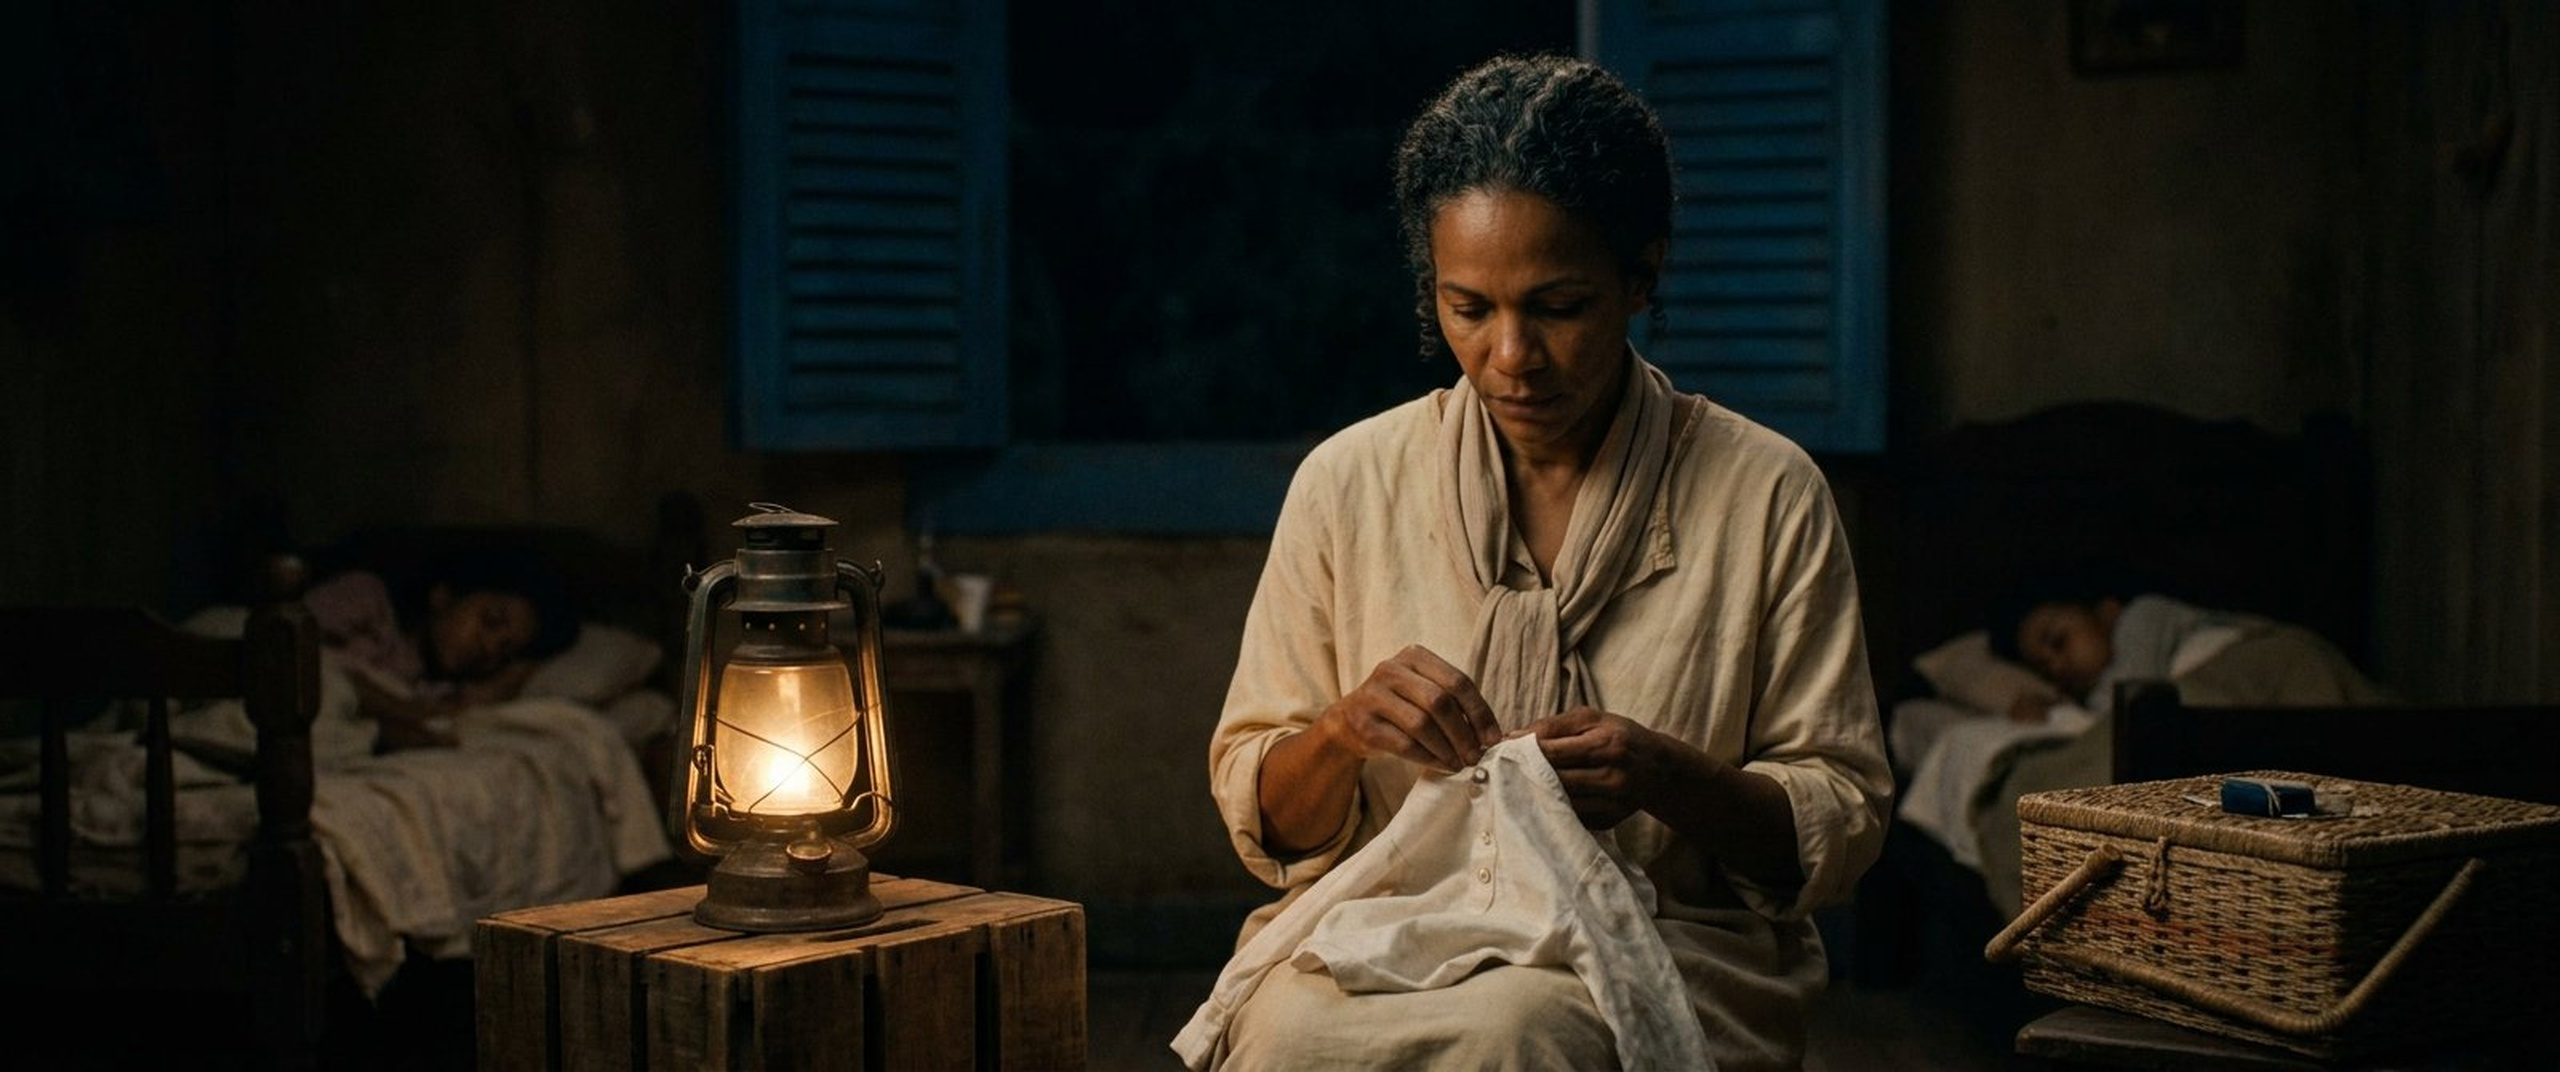
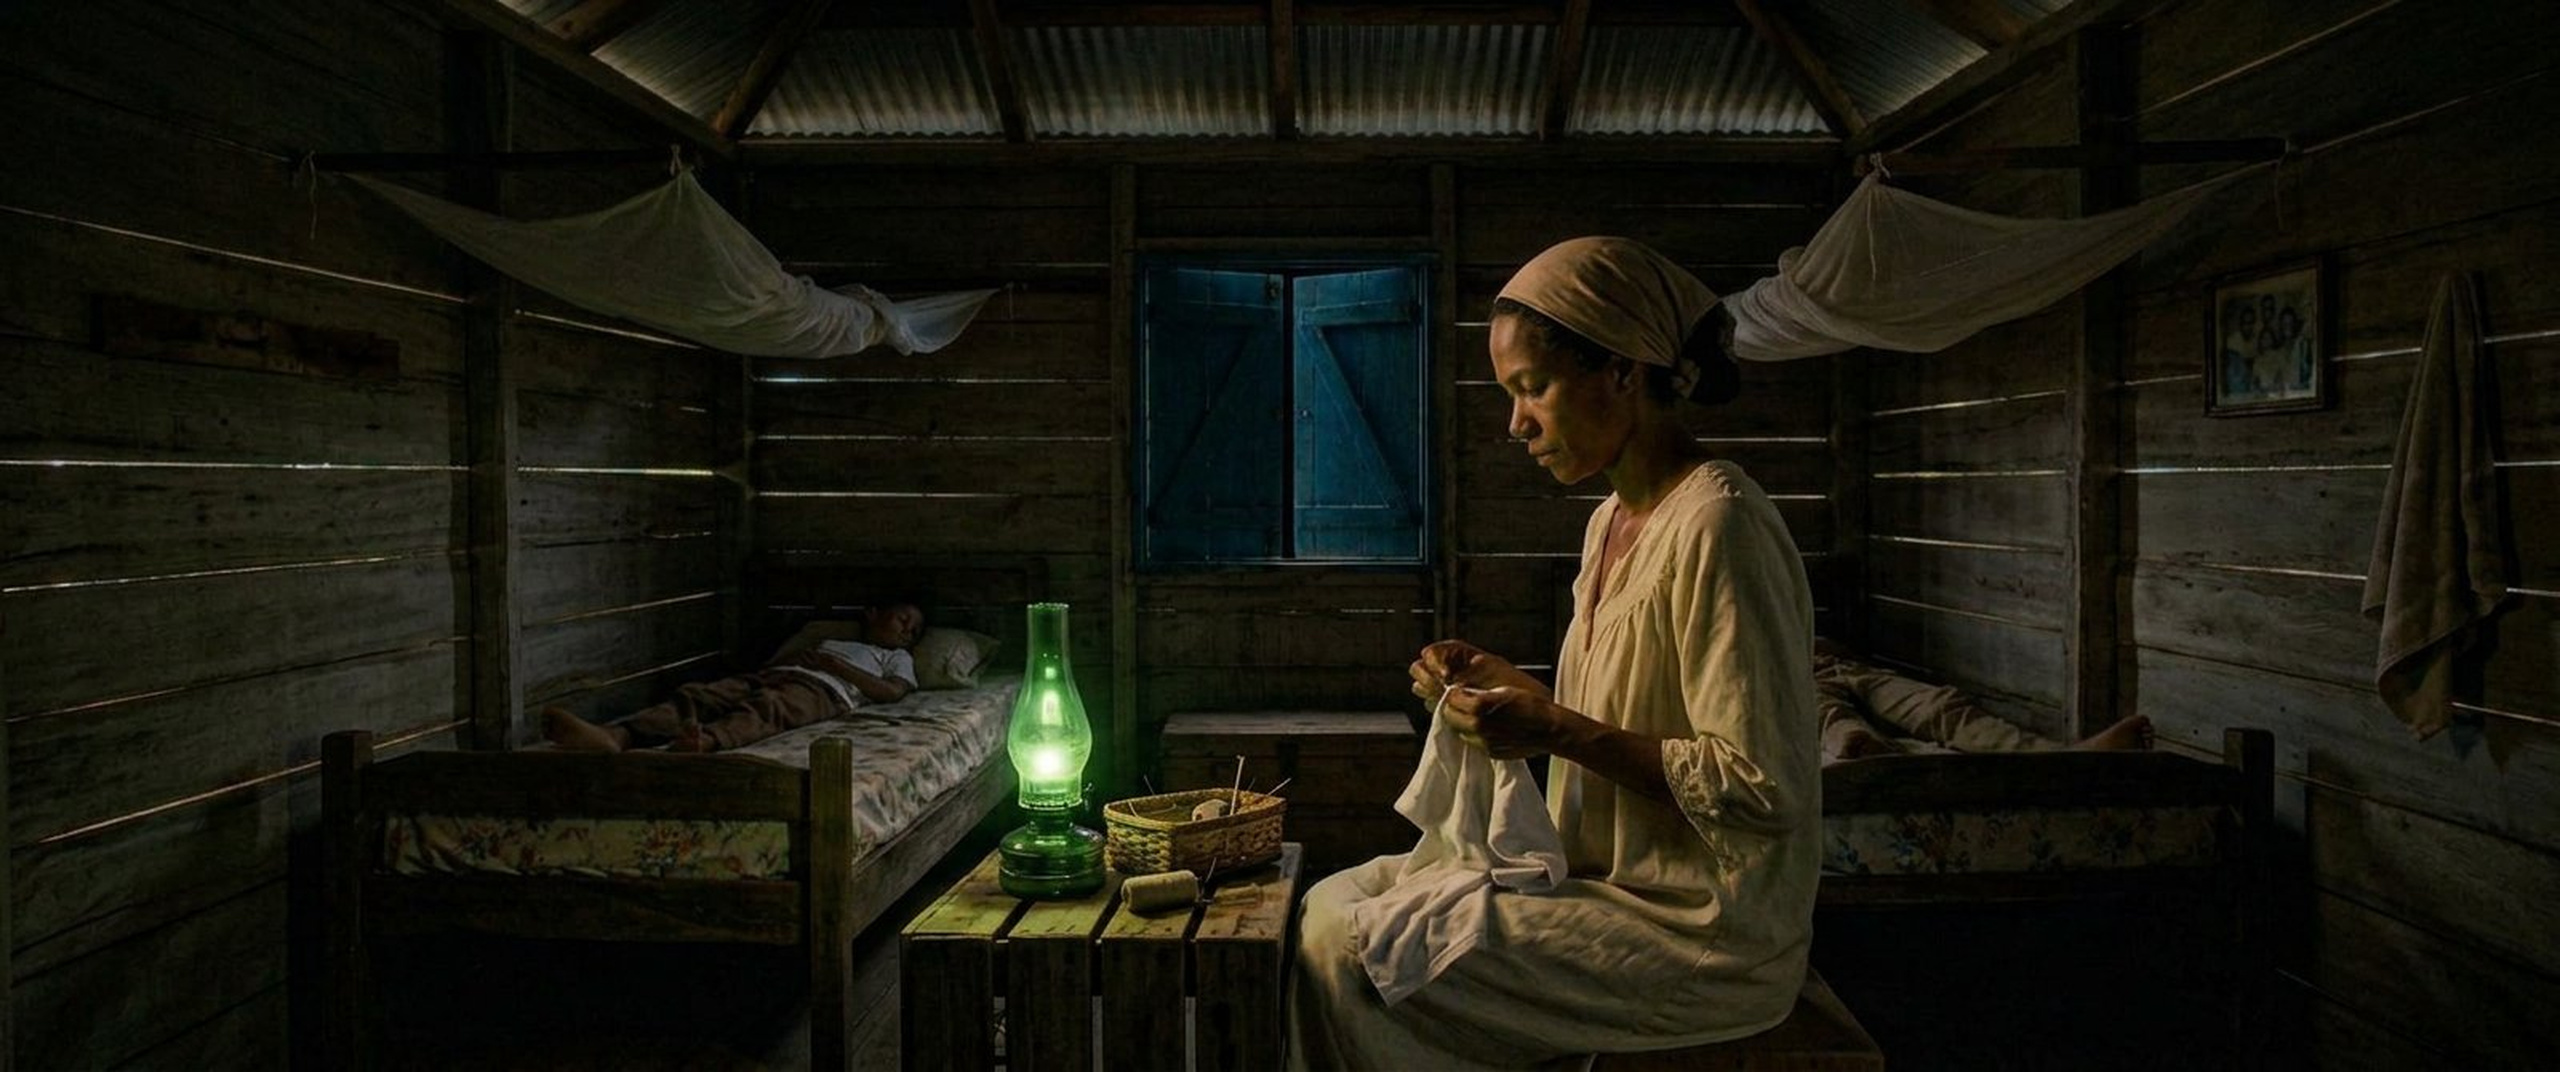
[TOÑO][WILSON] S07 P02 FINAL LOTE 10: pañuelo noche beige corregido - CIERRE 5/5 FINAL - 2560x1072 - charters clonados

diff --git a/los_caminos_de_la_vida/01_FOTOGRAFIAS_POR_SECUENCIA/SECUENCIA_07_COSTURA_DE_NOCHE/SECUENCIA_07_PLANOS.md b/los_caminos_de_la_vida/01_FOTOGRAFIAS_POR_SECUENCIA/SECUENCIA_07_COSTURA_DE_NOCHE/SECUENCIA_07_PLANOS.md
@@ -1,36 +1,37 @@
-# SECUENCIA 07 — COSTURA DE NOCHE · MISMA NOCHE, MÁS TARDE · TOÑO - COMPLETA 5/5
-**Director: LEVI - Guion 02_ORDENES_NUEVAS_SECUENCIAS.md S07 + 05_SET_CASA_BLOQUEADO + 08_ORDEN_PERMANENTE_DE_BUCLE**
-**Fotógrafo:** TOÑO (fotógrafo de noche, interiores queroseno) - TAREA A de 06_EQUIPO_DE_FOTOGRAFIA (reforzas 12-sep)
-**Fecha:** 2026-09-13 - Bucle continuo - COMPLETADA
+# SECUENCIA 07 — COSTURA DE NOCHE · MISMA NOCHE, MÁS TARDE · TOÑO/WILSON - COMPLETA 5/5 + REPARACION LOTE 10
+**Director: LEVI - Guion 02_ORDENES_NUEVAS_SECUENCIAS.md S07 + 05_SET_CASA_BLOQUEADO + Veredicto LOTE 10: P02 REVISAR pañuelo + 08_ORDEN_PERMANENTE_DE_BUCLE**
+**Fotógrafo:** TOÑO (fotógrafo de noche) + WILSON apoyo - TAREA A de 06_EQUIPO_DE_FOTOGRAFIA
+**Fecha:** 2026-09-13/14 - Bucle continuo - COMPLETADA 5/5 + FINAL V2
 
 **Set:** dormitorio/sala de la casa de NOCHE, misma noche que S06 pero más tarde, masters obligatorios: 07_INTERIOR_SALA_COMEDOR + 09_DORMITORIO_MADRE + 10_DORMITORIO_HIJOS (nuevo aprobado y bloqueado). Piso tablas, paredes tablas horizontales rendijas luz, techo zinc vigas visibles, postigos AZULES. Luz: SOLO lámpara de queroseno junto a la madre (farol verde), todo lo demás en penumbra profunda. Sin electricidad.
 
-**Personajes:** Madre sola 35-40 años charter Tiempo A (bata crema + pañuelo de noche, moño bajo) remendando ropa del niño; niños dormidos al fondo en las dos camas del dormitorio hijos (niño 9-10 camiseta blanca + pantalón largo + sandalias, hermano 15-16 beige + caqui, ambos dormidos bajo mosquiteros). Vestuario fijo S07: madre bata crema + pañuelo noche, niños dormidos con ropa S06.
+**Personajes:** Madre sola 35-40 años charter Tiempo A (bata crema + pañuelo de noche BEIGE, moño bajo) remendando ropa del niño; niños dormidos al fondo en las dos camas del dormitorio hijos (niño 9-10 camiseta blanca + pantalón largo + sandalias, hermano 15-16 beige + caqui, ambos dormidos bajo mosquiteros). Vestuario fijo S07: madre bata crema + pañuelo noche obligatorio en TODOS los planos, niños dormidos con ropa S06.
 
 **Props fijos:** lámpara queroseno verde (siempre misma), canasta de costura, prenda remendada blanca del niño, dos niños dormidos, mesita cajón con farol, baúl, ropa colgada.
 
-## Planos entregados - 5/5 COMPLETA - 2.39:1, 2560x1072, ARRI Alexa 35 + Cooke
+## Planos entregados - 5/5 COMPLETA - 2.39:1, 2560x1072, ARRI Alexa 35 + Cooke - FINAL V2
 
-1. **S07_P01_DORMITORIO_PENUMBRA_GENERAL_24MM.jpg** - TOÑO - General dormitorio/sala penumbra 24mm T4.5 - 2560x1072
-   - General del dormitorio/sala en penumbra profunda, madre sentada junto a farol verde sobre cajón, remendando, niños dormidos al fondo en dos camas con mosquiteros
+1. **S07_P01_DORMITORIO_PENUMBRA_GENERAL_24MM.jpg** - TOÑO - General dormitorio/sala penumbra 24mm T4.5 - 2560x1072 - ✅ APROBADA LOTE 10
+   - General del dormitorio/sala en penumbra profunda, madre sentada junto a farol verde sobre cajón, remendando, niños dormidos al fondo en dos camas con mosquiteros, pañuelo noche visible
 
-2. **S07_P02_MADRE_REMENDANDO_50MM.jpg** - TOÑO - Madre remendando 50mm T2.8 - 2560x1072
-   - Medio madre remendando ropa niño con aguja e hilo, manos grandes trabajadoras joven 35-40, bata crema + pañuelo noche
+2. **S07_P02_MADRE_REMENDANDO_50MM.jpg** - TOÑO/WILSON - Madre remendando 50mm T2.8 - 2560x1072 - 🔍 REVISAR LOTE 10 -> CORREGIDO FINAL 14-sep V2 - 626K
+   - Orden Director LOTE 10: Todo bien PERO en P01 la madre lleva PAÑUELO en la cabeza y aquí no. Regenerar con pañuelo (como P01/P04/P05).
+   - Corrección FINAL 14-sep WILSON: madre ahora con PAÑUELO DE NOCHE BEIGE CLARO en la cabeza (mismo que P01/P04/P05), bata crema, moño bajo, manos jóvenes trabajadoras 35-40, remendando ropa blanca niño con aguja e hilo, canasta costura, farol verde, 2 camas mosquiteros fondo con niños dormidos, masters 07/09/10 exactos, postigos AZULES, solo queroseno verde, nadie mira cámara, 5 dedos, 2560x1072
 
-3. **S07_P03_MANOS_AGUJA_HILO_MACRO_100MM.jpg** - TOÑO - Manos aguja e hilo macro 100mm T2.8 - 2560x1072
+3. **S07_P03_MANOS_AGUJA_HILO_MACRO_100MM.jpg** - TOÑO - Manos aguja e hilo macro 100mm T2.8 - 2560x1072 - ✅ APROBADA LOTE 10
    - Macro inserto manos madre con aguja e hilo atravesando tela blanca camisa niño, 5 dedos, manga bata crema
 
-4. **S07_P04_ROSTRO_MADRE_LAMPARA_85MM.jpg** - TOÑO - Rostro madre bajo lámpara 85mm T2.0 - 2560x1072
+4. **S07_P04_ROSTRO_MADRE_LAMPARA_85MM.jpg** - TOÑO - Rostro madre bajo lámpara 85mm T2.0 - 2560x1072 - ✅ APROBADA LOTE 10
    - Primer plano rostro madre bajo lámpara queroseno, mirada cansada firme, ternura contenida, moño bajo + pañuelo noche
 
-5. **S07_P05_NINOS_DORMIDOS_MADRE_MIRANDO_35MM.jpg** - TOÑO - Niños dormidos + ella mirándolos 35mm T2.8 - 2560x1072
+5. **S07_P05_NINOS_DORMIDOS_MADRE_MIRANDO_35MM.jpg** - TOÑO - Niños dormidos + ella mirándolos 35mm T2.8 - 2560x1072 - ✅ APROBADA LOTE 10
    - Cierre: madre mirando a niños dormidos con orgullo y cansancio, farol verde a su lado, penumbra profunda, cierre emocional noche, nadie mira cámara
 
-## Cumplimiento 7 controles + set bloqueado
+## Cumplimiento 7 controles + set bloqueado - FINAL V2
 
-1. Personajes: Madre Tiempo A misma cara charter, bata crema + pañuelo noche + moño bajo, manos jóvenes trabajadoras 35-40, Niños dormidos (niño cicatriz ceja IZQUIERDA no visible dormido, hermano sin marca), 5 dedos
-2. Vestuario: Tabla S07 fija idéntico 5 planos
-3. Continuidad: Masters 07/09/10 clonados exacto, 2 camas mosquiteros, baúl, ropa colgada, foto familiar, postigos azules, piso tablas, farol verde, canasta costura
+1. Personajes: Madre Tiempo A misma cara charter MADRE_TIEMPO_A_RECUERDOS_CHARTER_OFICIAL_6K, bata crema + pañuelo noche BEIGE obligatorio + moño bajo, manos jóvenes trabajadoras 35-40, Niños dormidos (niño cicatriz ceja IZQUIERDA no visible dormido, hermano sin marca), 5 dedos
+2. Vestuario: Tabla S07 fija idéntico 5 planos - bata crema + pañuelo noche en TODOS (corregido P02 V2)
+3. Continuidad: Masters 07/09/10 clonados exacto, 2 camas mosquiteros, baúl, ropa colgada, foto familiar, postigos azules, piso tablas, farol verde, canasta costura, niños dormidos separados (P01 master) o misma cama aceptable alternativa montaje
 4. Iluminación: SOLO queroseno verde junto a madre, penumbra profunda resto, sin electricidad
 5. Dirección actor: Nadie mira cámara, madre mira tarea/niños dormidos, niños ojos cerrados
 6. Cámara: ARRI Alexa 35 + Cooke, lentes 24/50/100 macro/85/35, 2.39:1 2560x1072, look cine grano fino, sin texto/marcas
@@ -38,3 +39,4 @@
 
 ## Firma
 [2026-09-13] TOÑO | S07 COSTURA DE NOCHE 5/5 COMPLETA | Misma noche S06 más tarde, SOLO queroseno verde, bata crema + pañuelo noche, niños dormidos, masters 07/09/10, 2.39:1 2560x1072 | Pendiente veredicto Director
+[2026-09-14] WILSON | S07 P02 FINAL LOTE 10: pañuelo noche beige corregido | 3 detalles LOTE 10 corregidos, charters clonados, 2560x1072 | CIERRE S07 5/5 FINAL pendiente veredicto

diff --git a/los_caminos_de_la_vida/02_DIRECCION/REGISTRO_DE_AGENTES.md b/los_caminos_de_la_vida/02_DIRECCION/REGISTRO_DE_AGENTES.md
@@ -76,3 +76,4 @@ Formato: `[FECHA] ID-AGENTE | SECUENCIA/ARCHIVOS | qué hizo | pendiente`
 | 2026-09-13 | `AGENTE_H_S10` | **CADENA 09 cumplida: Luis CHARTER V2 toca la puerta de la casa de la madre + Luis sentado en el conuco al atardecer.** 6 tomas en `SECUENCIA_10_PERFORMANCE_LUIS/`: EX13 general toca puerta 24mm · EX14 medio galería/puerta 50mm · EX15 sentado conuco atardecer 35mm · EX16 canto sentado 50mm · EX17 rostro 85mm · EX18 paisaje conuco 24mm + `SECUENCIA_10_EXTRAS_CADENA_PUERTA_CONUCO.md`. Casa clonada del master 01; conuco de S03_P01. Negro total, modo película, 3840×1608 2.39:1, nadie mira cámara. Cadena H marcada cumplida en `09_CADENA_DE_TRABAJO.md`. Nada borrado. | Veredicto Director sobre EX13–EX18 (y EX01–EX12 aún en radar) |
 | 2026-09-11 | `WILSON` | **PARTE TOTAL AL DIRECTOR — ENTREGA DE TODO LO PUBLICADO DESDE ESTE CHAT:** (1) `00_continuidad/03B_PROTAGONISTA_ADOLESCENTE/PROTAGONISTA_ADOLESCENTE_CHARTER_OFICIAL.jpg`, pliego 7 vistas 6144×3456, aprobado/bloqueado como puente niño→adulto; (2) `SECUENCIA_03_CONUCO/S03_P05_MANOS_YUCA_TIERRA_MACRO_100MM_V3_WILSON.jpg`, 3840×1608, reparación sin delantal; (3) `SECUENCIA_09_PRESENTE/S09_EXTRA_TECHO_ATARDECER_35MM_WILSON.jpg`; (4) `SECUENCIA_09_PRESENTE/S09_EXTRA_TECHO_ATARDECER_50MM_WILSON.jpg`, ambas 3840×1608, alternativas del hijo adulto reparando el techo. Todos siguen íntegros en el repo y quedan a su veredicto. Las pruebas locales de S06 no publicadas fueron descartadas al quedar superadas por el set y las fotos oficiales; no se duplican ni se presentan como entrega. | Director LEVI: inventario completo de aportes WILSON de este chat para revisión. |
 | 2026-09-14 | WILSON | SECUENCIA_06 LA COMIDA - P06 FINAL LOTE 9 V2: `S06_P06_PLANO_TRES_MESA_50MM.jpg` 776K 2560x1072 - hermano 15-16 sandalias, ponchera metal central, noche solo queroseno verde - Charter MADRE_A + NINO + HERMANO_A + master 07 - CIERRE 6/6 | Veredicto FINAL Director S06 - PARTE TOTAL |
+| 2026-09-14 | WILSON | SECUENCIA_07 COSTURA DE NOCHE - P02 FINAL LOTE 10: `S07_P02_MADRE_REMENDANDO_50MM.jpg` 626K 2560x1072 - pañuelo noche beige corregido (mismo P01/P04/P05), bata crema + moño bajo, manos jovenes 35-40, masters 07/09/10, solo queroseno verde - CIERRE 5/5 FINAL | Veredicto FINAL Director S07 |
